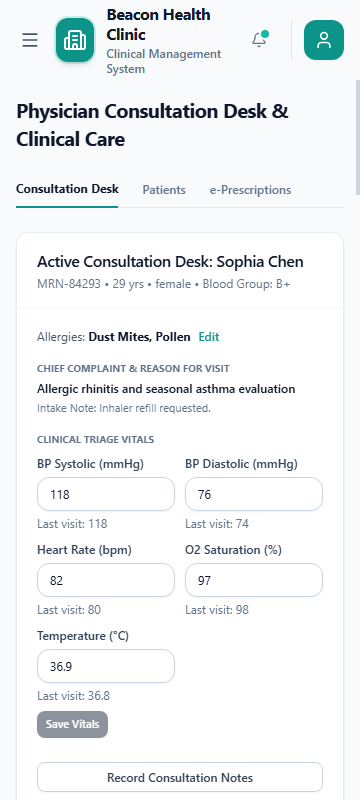
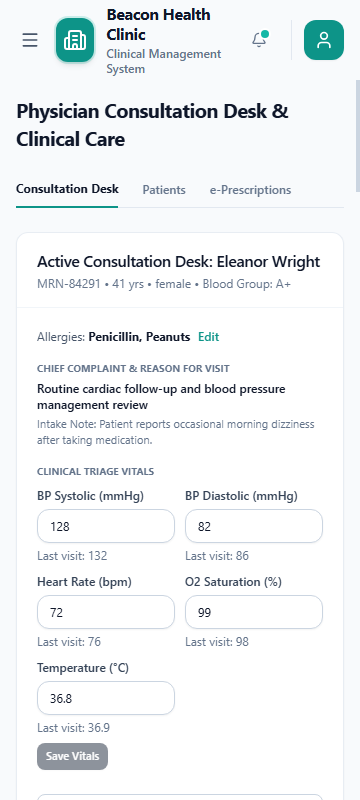
feat(doctor): display comprehensive last visit details in patient summary card

diff --git a/src/views/DoctorView.tsx b/src/views/DoctorView.tsx
@@ -174,9 +174,18 @@ export const DoctorView: React.FC<DoctorViewProps> = ({ activeTab = 'overview' }
     (activeAppointment && activeAppointment.status === 'in_consultation' ? activeAppointment : null) ||
     doctorAppointments.find((a) => a.status === 'in_consultation') ||
     null;
-  const summaryPatient = consultationApt
-    ? patients.find((p) => p.id === consultationApt.patientId) || null
-    : null;
+  const summaryPatient =
+    activePatient ||
+    (consultationApt ? patients.find((p) => p.id === consultationApt.patientId) || null : null);
+
+  const lastCompletedApt = useMemo(() => {
+    if (!summaryPatient) return null;
+    return (
+      appointments
+        .filter((a) => a.patientId === summaryPatient.id && a.status === 'completed')
+        .sort((a, b) => new Date(b.dateTime).getTime() - new Date(a.dateTime).getTime())[0] || null
+    );
+  }, [summaryPatient, appointments]);
 
   // Clinical Triage Vitals Input State
   const [vitalsForm, setVitalsForm] = useState({
@@ -1046,11 +1055,53 @@ export const DoctorView: React.FC<DoctorViewProps> = ({ activeTab = 'overview' }
                 <CardContent className="space-y-3 text-xs">
                   {summaryPatient ? (
                     <>
-                      <div className="flex justify-between items-baseline gap-2">
-                        <span className="text-slate-500 dark:text-slate-400 shrink-0">Last Visit:</span>
-                        <span className="font-medium text-slate-900 dark:text-slate-100 text-right">
-                          {summaryPatient.lastVisitDate || 'None recorded'}
-                        </span>
+                      {/* Last Visit Details */}
+                      <div className="space-y-1.5 pb-2.5 border-b border-slate-100 dark:border-slate-800">
+                        <div className="flex justify-between items-baseline gap-2">
+                          <span className="text-slate-500 dark:text-slate-400 shrink-0">Last Visit:</span>
+                          <span className="font-medium text-slate-900 dark:text-slate-100 text-right">
+                            {summaryPatient.lastVisitDate ||
+                              (lastCompletedApt?.dateTime
+                                ? new Date(lastCompletedApt.dateTime).toLocaleDateString('en-GB', {
+                                    day: '2-digit',
+                                    month: 'short',
+                                    year: 'numeric',
+                                  })
+                                : 'None recorded')}
+                          </span>
+                        </div>
+
+                        {summaryPatient.previousVitals && (
+                          <div className="flex justify-between items-baseline gap-2">
+                            <span className="text-slate-500 dark:text-slate-400 shrink-0">Last Visit Vitals:</span>
+                            <div className="text-right">
+                              <span className="font-medium text-slate-900 dark:text-slate-100 block">
+                                BP {summaryPatient.previousVitals.systolicBp}/{summaryPatient.previousVitals.diastolicBp} mmHg • HR {summaryPatient.previousVitals.heartRateBpm} bpm
+                              </span>
+                              <span className="text-[11px] text-slate-500 dark:text-slate-400 block mt-0.5">
+                                SpO2 {summaryPatient.previousVitals.oxygenSaturationPct}% • Temp {summaryPatient.previousVitals.temperatureCelsius} °C
+                              </span>
+                            </div>
+                          </div>
+                        )}
+
+                        {lastCompletedApt?.reasonForVisit && (
+                          <div className="flex justify-between items-baseline gap-2">
+                            <span className="text-slate-500 dark:text-slate-400 shrink-0">Last Reason:</span>
+                            <span className="font-medium text-slate-900 dark:text-slate-100 text-right line-clamp-2" title={lastCompletedApt.reasonForVisit}>
+                              {lastCompletedApt.reasonForVisit}
+                            </span>
+                          </div>
+                        )}
+
+                        {lastCompletedApt?.doctorName && (
+                          <div className="flex justify-between items-baseline gap-2">
+                            <span className="text-slate-500 dark:text-slate-400 shrink-0">Consulting Doctor:</span>
+                            <span className="font-medium text-slate-900 dark:text-slate-100 text-right">
+                              {lastCompletedApt.doctorName}
+                            </span>
+                          </div>
+                        )}
                       </div>
 
                       <div className="flex justify-between items-baseline gap-2">

diff --git a/PROJECT_SPECIFICATION_AND_RULES.md b/PROJECT_SPECIFICATION_AND_RULES.md
@@ -91,7 +91,7 @@ Every feature and line of code in this project strictly adheres to the governing
 - **Zero Focus Glows & Animated Effects (No-Flashing-Focus Rule)**: Suppress focus rings, glows, pulsing animations, and animated hover/focus transitions (`ring-0`, `shadow-none`, no animated transitions). Only static keyboard-only 1px outline in the existing accent color is permitted.
 - **Plain-Text Navigation Tabs**: Active tabs must be styled with bold text and a static 2px underline in the existing accent color (`border-b-2 border-teal-600 -mb-px`), sitting on the tab row's bottom line. Inactive tabs have no underline at all (`border-transparent` removed).
 - **Worklist Fixed-Width Table Layout**: Consultation worklist renders inside a semantic table (`table`, `thead`, `tbody`, `th scope="col"`) with non-wrapping headers (`whitespace-nowrap`), standardized column widths (`#`: ~56px, `Time`: ~80px, `Patient`: ~180px, `Appt ID`: ~140px, `Status`: ~140px, `Actions`: sized to content). The `Complaint` column expands to absorb all remaining table width (`w-full`) eliminating empty gaps, clamping to 2 lines with a full hover title attribute. Queue numbering under `#` displays plain integers ('1', '2', '3') without `#` prefixes in table cells.
-- **Patient Summary Card**: In the right column of the Consultation Desk tab, the former physician profile card is replaced with an executive Patient Summary card for the patient currently in consultation (or selected doctor during MD inspection). Content is rendered as plain text label/value rows for Last Visit, Chronic Conditions, and Current Medications (derived from active prescriptions), with clean fallbacks ("None recorded" / "No active consultation"). The Previous Visit Vitals row was removed in Fix 7, while the muted "Last visit:" baseline references under the active consultation vitals inputs remain.
+- **Patient Summary Card**: In the right column of the Consultation Desk tab, the executive Patient Summary card displays the patient's comprehensive Last Visit details (visit date, previous visit triage vitals with BP/HR/SpO2/Temp, last visit reason for visit, and consulting physician), chronic conditions, and current medications (derived from active prescriptions), with clean fallbacks ("None recorded" / "No active consultation"). The muted "Last visit:" baseline references under the active consultation vitals inputs remain.
 - **Vitals Reference Markers & Baseline**: Active consultation vitals display the patient's previous visit vitals beneath each field as muted helper text (`Last visit: ...`). Entered values outside standard clinical display ranges display plain-text reference markers (`High` or `Low`) beside the label without color changes or badges.
 - **Flattened Content Containers**: Card contents must not contain nested bordered boxes (`p-3 bg-slate-50 border rounded-xl`). Information must be organized into plain text rows directly inside the card with subtle divider rules where appropriate.
 - **Frameless Seamless Layout & Outlines**: Card outlines and outlined section boxes inside cards are allowed. The frameless rule applies to header shadows and divider lines between panels only.
@@ -202,6 +202,7 @@ The table below outlines the evolution of the codebase from initial repository s
 
 | Commit Hash | Commit Message / Feature Description | User Intent & Key Actions |
 | :--- | :--- | :--- |
+| `546d2ef` | `feat(doctor): display comprehensive last visit details in patient summary card` | User requested: "i want the last visit details of the paitents to be shown in the patient summary itself". Enhanced Patient Summary card in DoctorView to display comprehensive Last Visit details: previous visit date, previous triage vitals (systolic/diastolic BP, heart rate, SpO2, temperature), last reason for visit, and consulting physician derived from completed appointments and patient medical records. Updated summaryPatient resolution to stay synchronized with active desk selections. Zero emojis; 0 TypeScript errors; 112 unit tests pass. |
 | `879ebd5` | `docs(responsive): complete M1.6 responsive verification audit across 11 screens and 3 breakpoints` | User requested: "Run npm run build (0 TypeScript errors, 0 lint warnings), npm test, and the emoji scan. For each screen as the role that uses it, take screenshots at 360x800, 768x1024 and 1920x1080 into docs/responsive-check/ and list any remaining issues. Check that no screen scrolls sideways and nothing is cut off. Add a changelog entry, make one local commit, and report the files changed and any issue found." Completed automated CDP responsive layout and horizontal overflow audit using headless Edge across all 11 workstation screens (Login, MD Dashboard, Admin Roles, Admin Edit Users/Access Console, Doctor Consultation Desk, Doctor Patients Worklist, Doctor e-Prescriptions, Reception Waiting Lounge, Reception Check-In Directory, Reception Booking Calendar, Patient Portal) across 7 viewport widths (320px, 360px, 480px, 768px, 1024px, 1280px, 1920px). Confirmed zero horizontal scroll overflow (scrollWidth <= clientWidth) across all screens. Updated full screenshot suite in docs/responsive-check/ at 360x800, 768x1024, and 1920x1080. Build passes with 0 TS errors and 0 lint warnings; test suite passes with 112 unit tests and 0 emojis. |
 | `b8e381f` | `feat(dashboard): render summary figures as individual card blocks across all roles` | User requested: "make each as a seperate block and do the changes accordingly everythwere". Refactored role-aware Dashboard summary metrics from a single outer card into individual distinct Card blocks with rounded-xl borders and responsive grid (grid-cols-2 lg:grid-cols-4). Standardized personal record information cards in PatientView.tsx to rounded-xl. |
 | `273f019` | `feat(ui): unify combobox search directly into select trigger across forms and modals` | User requested: "and here instead of there being a drop down below the option make it with the select staff and change at places accordingly". Refactored Select.tsx searchable combobox pattern so the primary trigger input itself serves as the search query field when open, eliminating redundant nested search bars inside dropdown menus. Removed placeholder option rows across assignment modals in AccessControlView.tsx. |
